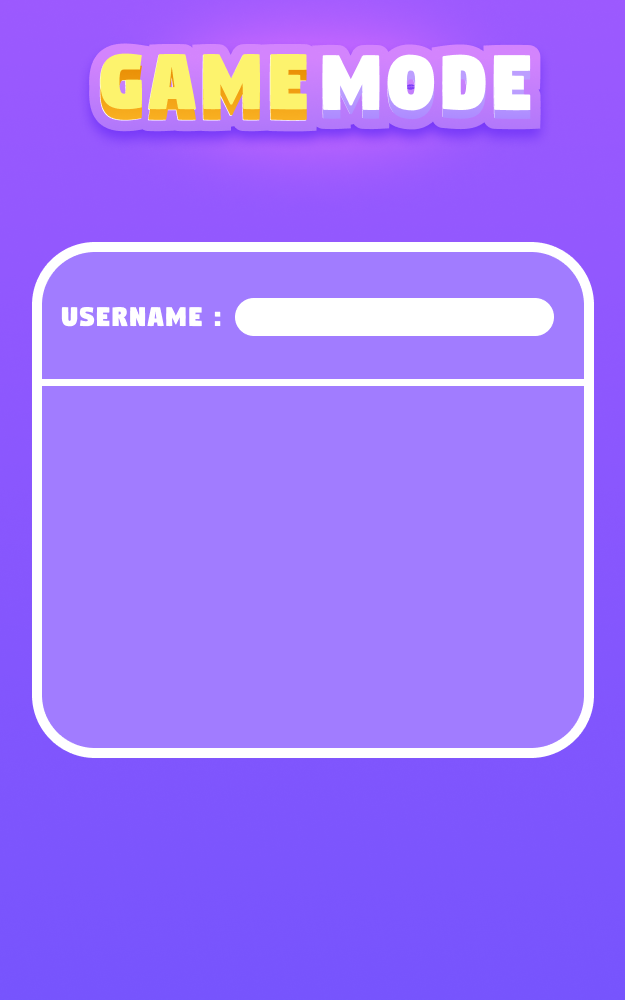
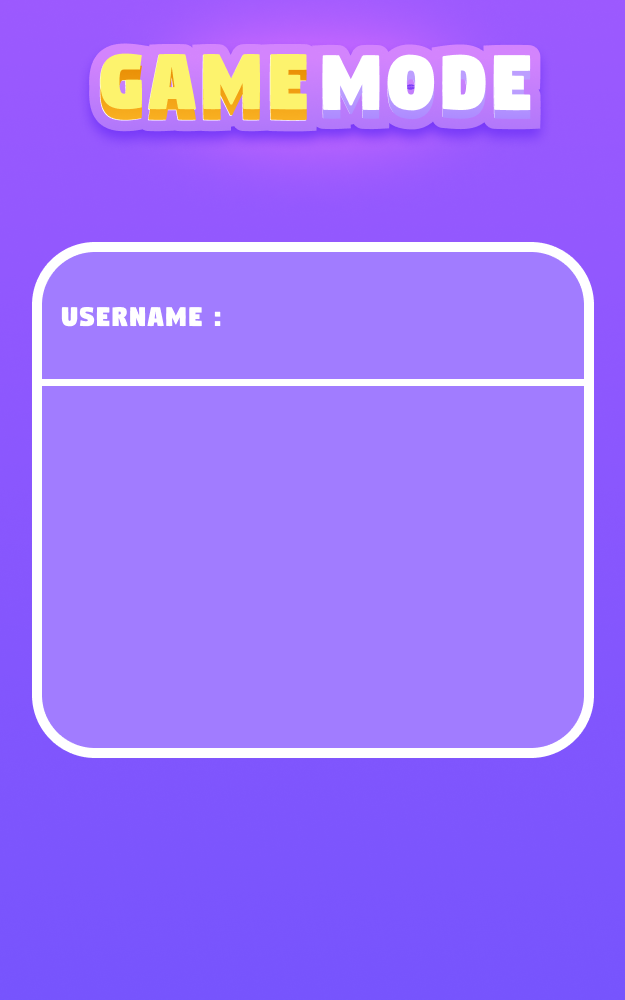
inputbox implemented (Not Complete)

Changed region(s): [[0.3648, 0.279, 0.8816, 0.341]]

diff --git a/src/main.cpp b/src/main.cpp
@@ -131,6 +131,7 @@ int main(int argc, char const *argv[])
         button classicGM = {142, 270, 243, 432, 0, 0, 0, 0, 0, true, false, IMG_LoadTexture(renderer, "assets/GameMode/Classic.png"), IMG_LoadTexture(renderer, "assets/GameMode/ClassicHover.png"), IMG_LoadTexture(renderer, "assets/GameMode/classicSelected.png"), hover, click, true};
         button infiniteGM = {142, 270, 422, 432, 0, 0, 0, 0, 0, false, false, IMG_LoadTexture(renderer, "assets/GameMode/Infinite.png"), IMG_LoadTexture(renderer, "assets/GameMode/InfiniteHover.png"), IMG_LoadTexture(renderer, "assets/GameMode/InfiniteSelected.png"), hover, click, false};
         button start = {198, 91, 219, 829, 0, 0, 0, 0, 5, false, false, IMG_LoadTexture(renderer, "assets/GameMode/startButton.png"), IMG_LoadTexture(renderer, "assets/GameMode/startButtonHover.png"), IMG_LoadTexture(renderer, "assets/GameMode/startButtonClick.png"), hover, click};
+        button inputBox = {319, 38, 236, 296, 0, 0, 0, 0, 0, false, false, IMG_LoadTexture(renderer, "assets/GameMode/inputBox.png"), IMG_LoadTexture(renderer, "assets/GameMode/inputBoxHover.png"), IMG_LoadTexture(renderer, "assets/GameMode/infiniteSelected.png"), hover, click};
         while (play.wasClicked)
         {
           while (SDL_PollEvent(&event) && play.wasClicked)
@@ -189,6 +190,36 @@ int main(int argc, char const *argv[])
             }
 
             SDL_RenderCopy(renderer, PlayBG, 0, 0);
+
+            drawButton(renderer, inputBox, event);
+
+            if (inputBox.wasClicked)
+            {
+              string name = "";
+              while (inputBox.wasClicked)
+              {
+                while (SDL_PollEvent(&event) && inputBox.wasClicked)
+                {
+                  if (SDL_KEYDOWN)
+                  {
+                    switch (event.key.keysym.sym)
+                    {
+                    case SDLK_SPACE:
+                      cout << name << endl;
+                      inputBox.wasClicked = false;
+                      break;
+                    case SDLK_BACKSPACE:
+                      if (name.size() > 0)
+                        name.pop_back();
+                      break;
+                    default:
+                      name += event.key.keysym.sym;
+                      break;
+                    }
+                  }
+                }
+              }
+            }
 
             drawButton(renderer, timerGM, event);
             drawButton(renderer, classicGM, event);
